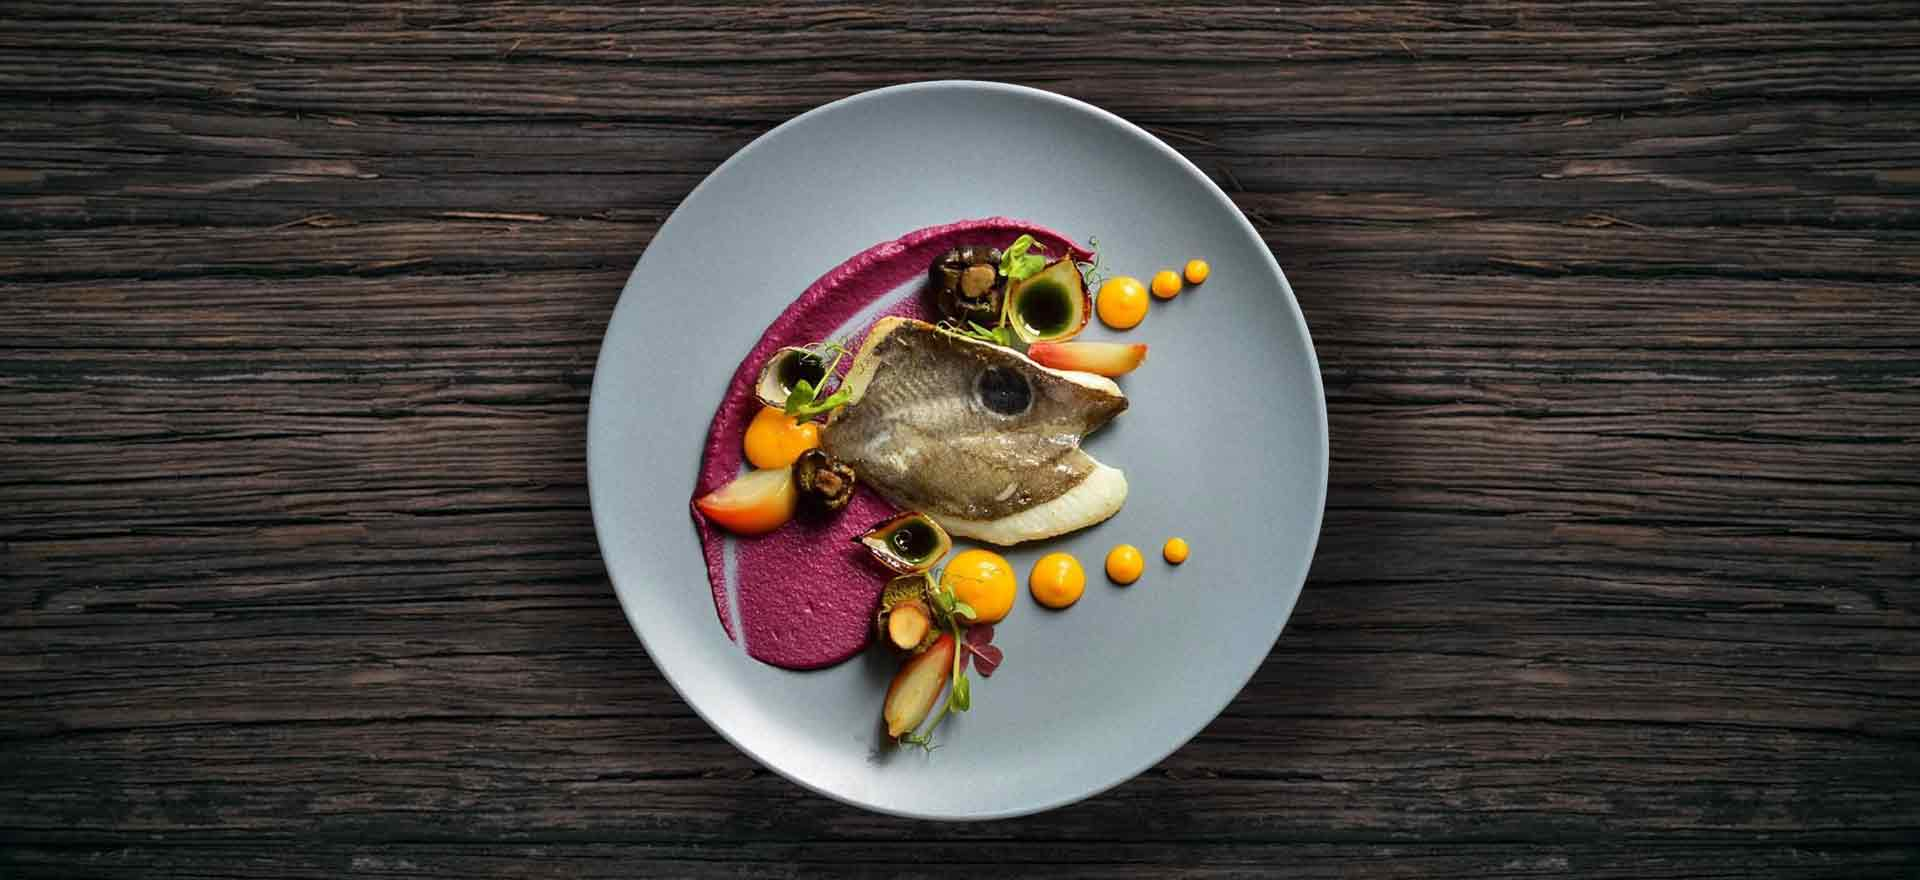
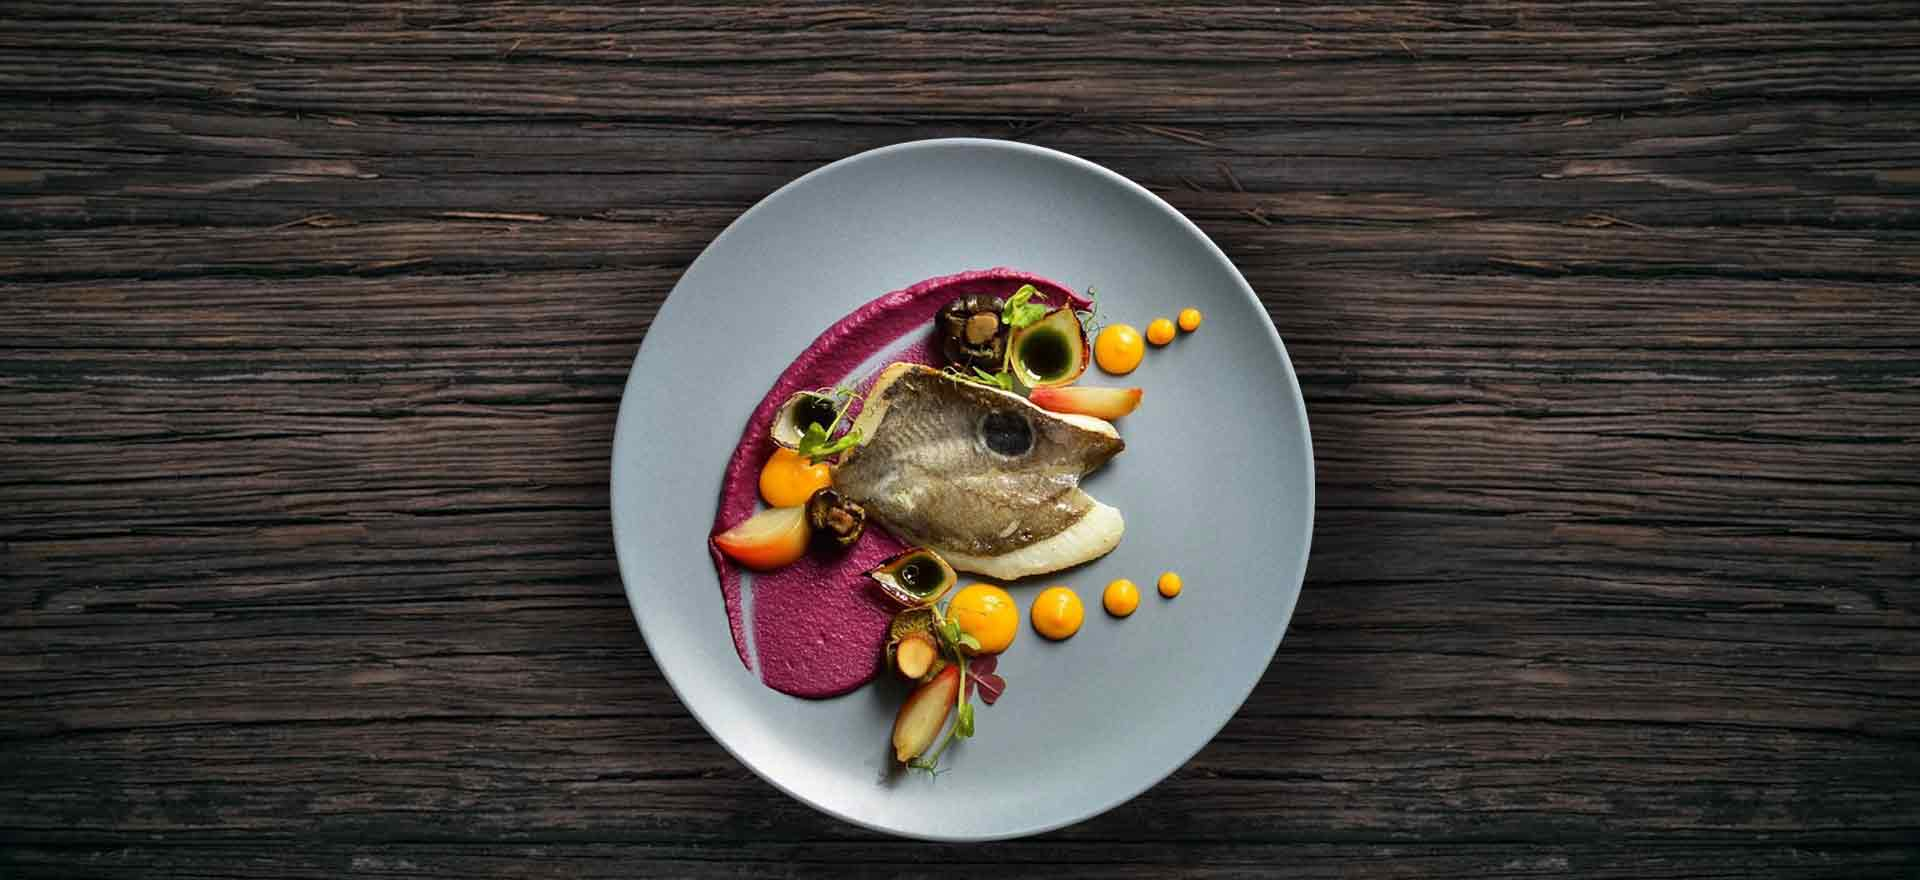
header slider 2.0

Changed region(s): [[0.2812, 0.0614, 0.7188, 0.9818], [0.6562, 0.7057, 0.6875, 0.767]]

diff --git a/app/index.html b/app/index.html
@@ -7,6 +7,8 @@
     <meta content='true' name='HandheldFriendly' />
     <meta content='width' name='MobileOptimized' />
     <meta content='yes' name='apple-mobile-web-app-capable' />
+    <meta name="description" content="cafe restaurant food">
+    <!-- <meta http-equiv="Content-Security-Policy" content="img-src * 'self' data: https:"> -->
     <title>Cafe</title>
     <link rel="shortcut icon" href="img/favicon.png" type="image/png">
     <link rel="stylesheet" href="modules/normalize/css/normalize.min.css">
@@ -20,7 +22,7 @@
         <header class="main-header">
             <nav class="main-nav">
                 <a href="#">
-                    <h2 class="main-nav__logo">Cafe</h3>
+                    <h2 class="main-nav__logo">Cafe</h2>
                 </a>
                 <ul class="main-nav__ul">
                     <li><a href="#" class="main-nav__link">Home</a></li>

diff --git a/dist/index.html b/dist/index.html
@@ -7,6 +7,8 @@
     <meta content='true' name='HandheldFriendly' />
     <meta content='width' name='MobileOptimized' />
     <meta content='yes' name='apple-mobile-web-app-capable' />
+    <meta name="description" content="cafe restaurant food">
+    <!-- <meta http-equiv="Content-Security-Policy" content="img-src * 'self' data: https:"> -->
     <title>Cafe</title>
     <link rel="shortcut icon" href="img/favicon.png" type="image/png">
     <link rel="stylesheet" href="modules/normalize/css/normalize.min.css">
@@ -20,7 +22,7 @@
         <header class="main-header">
             <nav class="main-nav">
                 <a href="#">
-                    <h2 class="main-nav__logo">Cafe</h3>
+                    <h2 class="main-nav__logo">Cafe</h2>
                 </a>
                 <ul class="main-nav__ul">
                     <li><a href="#" class="main-nav__link">Home</a></li>

diff --git a/app/scss/index.scss b/app/scss/index.scss
@@ -6,17 +6,17 @@
     max-width: 970px;
 }
 
-.main-header {
-    // background-color: $c-gray;
-}
+.main-header {}
 
 .main-nav {
-    // background-color: $c-gray;
     display: flex;
     flex-wrap: wrap;
     justify-content: space-between;
     align-items: center;
     border-bottom: 1px solid $c-white;
+    margin-bottom: -56px;
+    position: relative;
+    z-index: 1;
 
     &__logo {
         font-size: 2.4rem;
@@ -60,8 +60,8 @@
 .slider-header {
     width: 100%;
     overflow: hidden;
-    margin-top: -60px;
-    z-index: -1;
+    // margin-top: -60px;
+    // z-index: -1;
 
     img {
         width: 100vw;

diff --git a/app/css/index.css b/app/css/index.css
@@ -136,6 +136,9 @@ p {
   -webkit-box-align: center;
           align-items: center;
   border-bottom: 1px solid #ffffff;
+  margin-bottom: -56px;
+  position: relative;
+  z-index: 1;
 }
 
 .main-nav__logo {
@@ -179,8 +182,6 @@ p {
 .slider-header {
   width: 100%;
   overflow: hidden;
-  margin-top: -60px;
-  z-index: -1;
 }
 
 .slider-header img {

diff --git a/dist/css/index.css b/dist/css/index.css
@@ -136,6 +136,9 @@ p {
   -webkit-box-align: center;
           align-items: center;
   border-bottom: 1px solid #ffffff;
+  margin-bottom: -56px;
+  position: relative;
+  z-index: 1;
 }
 
 .main-nav__logo {
@@ -179,8 +182,6 @@ p {
 .slider-header {
   width: 100%;
   overflow: hidden;
-  margin-top: -60px;
-  z-index: -1;
 }
 
 .slider-header img {
